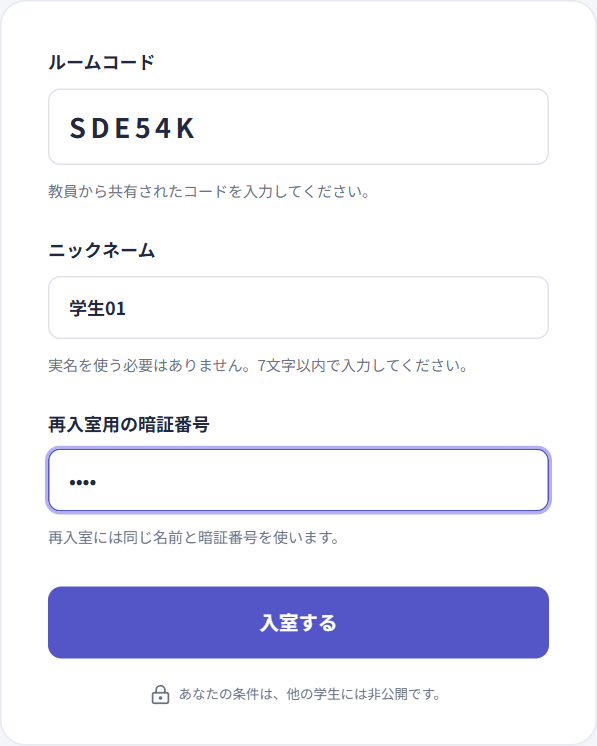
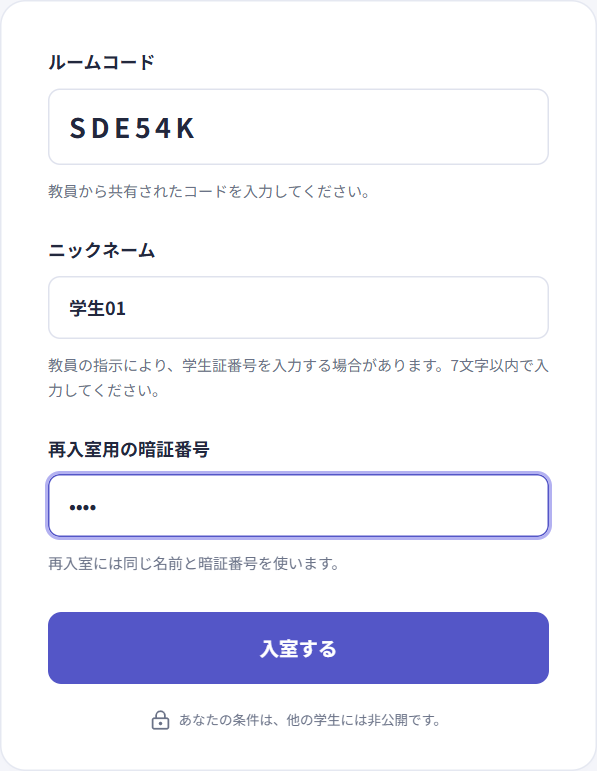
Clarify teacher-directed student ID entry

diff --git a/src/components/join-form.tsx b/src/components/join-form.tsx
@@ -100,7 +100,7 @@ export function JoinForm({ initialCode = "" }: { initialCode?: string }) {
         <span className="field-help">
           {judgment
             ? "先頭の0も含めて入力してください。"
-            : `実名を使う必要はありません。${MAX_NICKNAME_LENGTH}文字以内で入力してください。`}
+            : `教員の指示により、学生証番号を入力する場合があります。${MAX_NICKNAME_LENGTH}文字以内で入力してください。`}
         </span>
       </label>
       <label className="field">

diff --git a/docs/guide/ja/classroom.md b/docs/guide/ja/classroom.md
@@ -31,7 +31,7 @@
 
 ![教員操作欄の例：ルームコード、入室人数、参加リンクのコピーと Dashboard](../images/share-room.png)
 
-学生はリンクを開き、コードを確認してニックネームと自分で決めた4桁の暗証番号を入力し、「入室する」を押します。Judgement under Uncertainty では名前欄が「学生証番号」になり、先頭の0を含む7桁の番号を入力します。実験はコードから判別されるため、学生が選ぶ必要はありません。
+学生はリンクを開き、コードを確認してニックネームと自分で決めた4桁の暗証番号を入力し、「入室する」を押します。ニックネームは7文字以内で、教員の指示により学生証番号を入力する場合があります。Judgement under Uncertainty では名前欄が「学生証番号」になり、先頭の0を含む7桁の番号を入力します。実験はコードから判別されるため、学生が選ぶ必要はありません。
 
 ![学生の入室例：ルームコード、ニックネーム、4桁の暗証番号と入室ボタン](../images/student-join.png)
 

diff --git a/docs/guide/en/classroom.md b/docs/guide/en/classroom.md
@@ -31,7 +31,7 @@ Share the six-character room code shown in the teacher view and the student entr
 
 ![Teacher controls example: room code, attendance, copy participation link, and Dashboard](../images/share-room.png)
 
-Students open the link, check the code, enter a nickname and their own four-digit PIN, and click **入室する**. For Judgement under Uncertainty, the identity field is **学生証番号**: enter a seven-digit student ID, including leading zeros. Students do not select an experiment; the room code identifies it.
+Students open the link, check the code, enter a nickname and their own four-digit PIN, and click **入室する**. The nickname field accepts up to seven characters; your teacher may ask you to enter your student ID. For Judgement under Uncertainty, the identity field is **学生証番号**: enter a seven-digit student ID, including leading zeros. Students do not select an experiment; the room code identifies it.
 
 ![Student entry example: room code, nickname, four-digit PIN, and join button](../images/student-join.png)
 

diff --git a/docs/guide/zh-CN/classroom.md b/docs/guide/zh-CN/classroom.md
@@ -31,7 +31,7 @@
 
 ![教师控制区示例：房间代码、已加入人数、复制参加链接和 Dashboard](../images/share-room.png)
 
-学生打开链接，核对房间代码，输入昵称和自己设置的四位数字 PIN，点击「入室する」。Judgement under Uncertainty 的身份栏会显示「学生証番号」，需填写七位学号，保留开头的0；学生不需要选择实验，平台会按代码识别。
+学生打开链接，核对房间代码，输入昵称和自己设置的四位数字 PIN，点击「入室する」。昵称限7个字符，按教师要求可能需要填写自己的学号。Judgement under Uncertainty 的身份栏会显示「学生証番号」，需填写七位学号，保留开头的0；学生不需要选择实验，平台会按代码识别。
 
 ![学生加入示例：房间代码、昵称、四位 PIN 和进入按钮](../images/student-join.png)
 

diff --git a/README.md b/README.md
@@ -33,7 +33,7 @@ flowchart LR
     class B,C shared
 ```
 
-教員がルームを作って共有し、学生はコードで入室します。実施する実験とルールは教員が案内し、終了後に教員が結果をダウンロードします。
+教員がルームを作って共有し、学生はコードで入室し、教員の指示に応じてニックネームまたは学生証番号を入力します。実施する実験とルールは教員が案内し、終了後に教員が結果をダウンロードします。
 
 [画面で見る使い方・再入室・ルーム管理](docs/guide/ja/classroom.md) · [Demo Model の使い方](docs/guide/ja/demo.md)
 

diff --git a/README.en.md b/README.en.md
@@ -33,7 +33,7 @@ flowchart LR
     class B,C shared
 ```
 
-The teacher creates and shares a room, and students join with its code. The teacher chooses the experiment, explains the rules, and downloads the results after the session.
+The teacher creates and shares a room, and students join with its code, using a nickname or student ID as instructed by the teacher. The teacher chooses the experiment, explains the rules, and downloads the results after the session.
 
 [Illustrated instructions, re-entry, and room management](docs/guide/en/classroom.md) · [Using Demo Model](docs/guide/en/demo.md)
 

diff --git a/README.zh-CN.md b/README.zh-CN.md
@@ -33,7 +33,7 @@ flowchart LR
     class B,C shared
 ```
 
-教师创建并分享房间，学生凭代码加入。实验由教师安排并讲解规则，结束后由教师下载结果。
+教师创建并分享房间，学生凭代码加入，按教师要求填写昵称或学号。实验由教师安排并讲解规则，结束后由教师下载结果。
 
 [图解操作、重新进入与房间管理](docs/guide/zh-CN/classroom.md) · [Demo Model 使用说明](docs/guide/zh-CN/demo.md)
 
